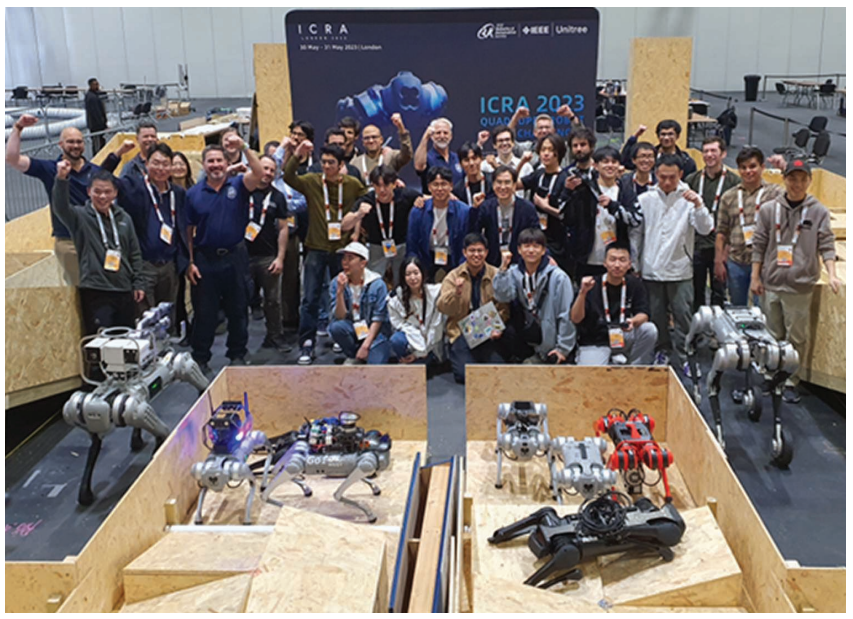
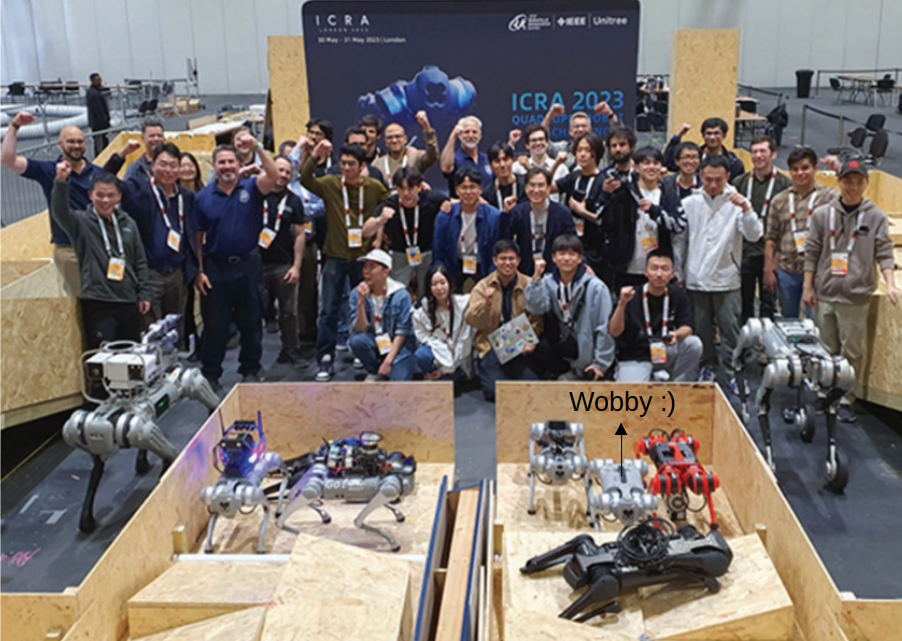
Compact landing page photo gallery

diff --git a/docs/assets/site.css b/docs/assets/site.css
@@ -3,6 +3,6 @@
 .sidebar{position:fixed;inset:0 auto 0 0;width:270px;padding:30px 24px;background:var(--wash);border-right:1px solid var(--line);overflow-y:auto}.brand{text-decoration:none;display:grid;grid-template-columns:42px 1fr;column-gap:12px;line-height:1.3;color:var(--ink)}.brand strong{font-size:23px}.brand>span:last-child{grid-column:2;font-size:15px;color:var(--muted)}.brand-mark{grid-row:1/3;align-self:center;background:var(--purple);color:#fff;border-radius:10px;padding:11px 3px;font-size:12px;font-weight:800;text-align:center}.institution{font-size:12px;color:var(--muted);margin:18px 0 24px}.finder-label{font-size:12px;font-weight:650}#page-finder{width:100%;border:1px solid #cec9d9;border-radius:7px;background:white;padding:9px 10px;font-size:13px;margin:6px 0 13px}.nav-group{margin:15px 0}.nav-group h2{font-size:11px;text-transform:uppercase;letter-spacing:.1em;color:var(--muted);margin:0 0 5px}.nav-link{display:block;text-decoration:none;font-size:13px;line-height:1.4;padding:7px 10px;border-radius:6px;margin:2px -10px}.nav-link.active{background:#eae4f3;color:var(--purple);font-weight:700}.repo-link{font-size:12px;display:block;margin-top:24px}.page-shell{margin-left:270px;max-width:1250px;padding:0 64px}.topline{border-bottom:1px solid var(--line);padding:23px 0;display:flex;gap:20px;justify-content:space-between;font-size:11px;color:var(--muted)}.topline>span{font-weight:700;letter-spacing:.13em}.topline a{text-decoration:none}main{padding:35px 0 50px}h1,h2,h3{line-height:1.25;letter-spacing:0}h1{font-size:42px;margin:0 0 20px}h2{font-size:25px;margin:40px 0 15px}h3{font-size:19px;margin-top:28px}p{margin:0 0 18px}.eyebrow{font-size:12px;letter-spacing:.12em;text-transform:uppercase;font-weight:750;color:var(--orange)}.lead{font-size:20px;line-height:1.6;color:var(--muted);max-width:750px}.cards{display:grid;grid-template-columns:repeat(2,minmax(0,1fr));gap:18px;margin:27px 0}.card{display:block;border:1px solid var(--line);border-top:3px solid var(--purple);border-radius:9px;padding:23px;text-decoration:none;color:var(--ink);background:white}.card:hover{border-color:var(--orange);color:var(--ink)}.card strong{display:block;font-size:23px;margin-bottom:6px}.card span{font-size:14px;color:var(--muted);display:block}.badge{display:inline-block;font-size:11px;font-weight:700;letter-spacing:.03em;color:var(--purple);background:#eee8f5;padding:4px 10px;border-radius:20px;margin-bottom:16px}table{display:block;overflow-x:auto;border-collapse:collapse;width:100%;font-size:14px;margin:20px 0 26px}th,td{border-bottom:1px solid var(--line);padding:12px 15px;text-align:left;vertical-align:top}th{background:var(--wash);font-weight:650}blockquote{margin:22px 0;padding:16px 20px;border-left:4px solid var(--orange);background:#fff7ef;font-size:15px}blockquote p:last-child{margin:0}pre{overflow:auto;background:#f3f1f7;padding:20px;border:1px solid var(--line);border-radius:8px;font-size:13px;line-height:1.6}code{font-family:Consolas,"SFMono-Regular",monospace;font-size:.9em;overflow-wrap:anywhere}p code,li code,td code{background:#f3f1f7;padding:2px 4px;border-radius:3px}img{max-width:100%;height:auto;border-radius:9px;border:1px solid var(--line)}.caption{font-size:12px;color:var(--muted);margin-top:-8px}.diagram{display:flex;align-items:center;gap:12px;flex-wrap:wrap;margin:24px 0;padding:20px;background:var(--wash);border-radius:9px}.diagram .node{flex:1;min-width:140px;background:#fff;border:1px solid #d8d0e4;border-radius:7px;padding:14px;text-align:center;font-size:14px}.diagram small{display:block;color:var(--muted)}footer{border-top:1px solid var(--line);padding:24px 0 35px;font-size:12px;color:var(--muted)}li{margin-bottom:7px}.mobile-header{display:none}
 @media(min-width:1450px){.page-shell{padding-left:90px;padding-right:90px}}@media(max-width:850px){.sidebar{display:none;position:static;width:auto;max-height:none}.sidebar.open{display:block}.mobile-header{display:flex;align-items:center;justify-content:space-between;padding:14px 20px;background:var(--wash);border-bottom:1px solid var(--line)}.mobile-header a{font-weight:750;text-decoration:none}.mobile-header button{border:1px solid #cec9d9;border-radius:6px;background:#fff;padding:4px 12px;font-size:13px}.page-shell{margin-left:0;padding:0 22px}h1{font-size:33px}.lead{font-size:18px}.cards{grid-template-columns:1fr}.topline{font-size:10px}.diagram{flex-direction:column;align-items:stretch}.diagram .arrow{text-align:center;transform:rotate(90deg)}main{padding-top:28px}}
 .landing-hero{display:grid;grid-template-columns:1.1fr .9fr;gap:32px;align-items:center;margin-bottom:30px}.landing-hero h1{font-size:38px}.landing-hero .lead{font-size:18px}.robot-rollcall{font-size:15px;color:var(--muted);line-height:1.9}.robot-rollcall strong{color:var(--ink)}.hero-media{margin:0;max-width:320px;justify-self:end}.hero-media img{display:block;width:100%;height:auto}.hero-media figcaption{font-size:11px;color:var(--muted);margin-top:8px;line-height:1.5}.start-button{display:inline-block;padding:10px 16px;background:var(--purple);color:white;border-radius:7px;font-size:14px;font-weight:650;text-decoration:none}.start-button:hover{background:#3e2162;color:white}@media(max-width:1000px) and (min-width:851px){.landing-hero{grid-template-columns:1fr}.hero-media{justify-self:start;max-width:280px}}@media(max-width:850px){.landing-hero{grid-template-columns:1fr;gap:24px}.landing-hero h1{font-size:33px}.hero-media{justify-self:center;max-width:320px}}
-.lab-photo{margin:24px 0 0}.lab-photo img{display:block;width:100%;height:auto}.lab-photo figcaption{font-size:12px;color:var(--muted);margin-top:8px}
+.lab-gallery{display:grid;grid-template-columns:repeat(2,minmax(0,1fr));gap:18px;margin-top:20px}.lab-photo{margin:0;min-width:0}.lab-photo img{display:block;width:100%;aspect-ratio:4/3;object-fit:cover}.lab-photo figcaption{font-size:12px;line-height:1.5;color:var(--muted);margin-top:7px}.lab-photo figcaption strong{color:var(--ink)}@media(max-width:700px){.lab-gallery{grid-template-columns:1fr}}
 .brand-logo{grid-row:1/3;align-self:center;width:42px;height:50px;object-fit:contain;background:#fff;border:0;border-radius:0}.mobile-brand{display:flex;align-items:center;gap:10px}.mobile-brand img{width:32px;height:38px;object-fit:contain;border:0;border-radius:0;background:#fff}
 .cards.robot-cards{grid-template-columns:minmax(0,1fr)}.robot-cards .robot-card{display:grid;grid-template-columns:minmax(210px,.38fr) 1fr;column-gap:32px;align-items:start}.robot-card-heading{padding-top:2px}.robot-card-heading a{text-decoration:none;color:var(--ink)}.robot-card-heading a:hover{color:var(--orange)}.robot-card-heading strong{margin:0}.robot-card-heading .robot-spawned{margin-top:5px;color:var(--orange);font-size:12px;font-weight:750;text-transform:uppercase;letter-spacing:.08em}.robot-card-copy p{margin:0 0 9px;color:var(--muted);font-size:15px;line-height:1.55}.robot-card-copy strong{display:inline;font-size:inherit;color:var(--ink)}.robot-card-copy p:last-child{margin-bottom:0}.robot-card-copy .robot-links{display:flex;flex-wrap:wrap;gap:5px 18px;margin-top:12px;font-size:13px}.robot-links a{font-weight:650}@media(max-width:650px){.robot-cards .robot-card{grid-template-columns:1fr;row-gap:12px}.robot-card-heading strong{margin-bottom:0}}

diff --git a/docs/index.md b/docs/index.md
@@ -80,14 +80,15 @@ Record the robot identity, software revision, connection path, and observed
 result during each checkout. Update the owning runbook when hardware, firmware,
 networking, or launch procedures change.
 
-<figure class="lab-photo">
-  <img src="{{ '/assets/dyco-ai-lab.webp' | relative_url }}" alt="DyCo-AI lab members working together around quadruped robots in the Clemson robotics lab." width="1200" height="800" loading="lazy" decoding="async">
-  <figcaption>Hands-on robot development in the DyCo-AI Lab at Clemson University.</figcaption>
-</figure>
+## Lab highlights
 
-## Wobby Walkers at ICRA 2023
-
-<figure class="lab-photo">
-  <img src="{{ '/assets/icra-qrc-london-2023.png' | relative_url }}" alt="Participants and quadruped robots gathered around the ICRA 2023 Quadruped Robot Challenge arena in London." width="853" height="619" loading="lazy" decoding="async">
-  <figcaption>Teams and robots at the ICRA 2023 Quadruped Robot Challenge in London. Wobby Walkers placed sixth overall in the final round. <a href="https://www.youtube.com/watch?v=Vqp2fmUyKt8&amp;list=PLhkxi2e2mJdc00o857554Solq4MgaqwZN&amp;index=6">Watch the challenge run</a> or <a href="https://ieeexplore.ieee.org/document/10255505">read the report</a>.</figcaption>
-</figure>
+<div class="lab-gallery">
+  <figure class="lab-photo">
+    <img src="{{ '/assets/dyco-ai-lab.webp' | relative_url }}" alt="DyCo-AI lab members working together around quadruped robots in the Clemson robotics lab." width="1200" height="800" loading="lazy" decoding="async">
+    <figcaption><strong>Robot development at Clemson.</strong> Hands-on work in the DyCo-AI Lab.</figcaption>
+  </figure>
+  <figure class="lab-photo">
+    <img src="{{ '/assets/icra-qrc-london-2023.png' | relative_url }}" alt="Participants and quadruped robots at the ICRA 2023 Quadruped Robot Challenge in London, with Wobby identified in the arena." width="902" height="641" loading="lazy" decoding="async">
+    <figcaption><strong>Wobby Walkers at ICRA 2023.</strong> Sixth overall in the final round. <a href="https://www.youtube.com/watch?v=Vqp2fmUyKt8&amp;list=PLhkxi2e2mJdc00o857554Solq4MgaqwZN&amp;index=6">Watch the run</a> or <a href="https://ieeexplore.ieee.org/document/10255505">read the report</a>.</figcaption>
+  </figure>
+</div>
